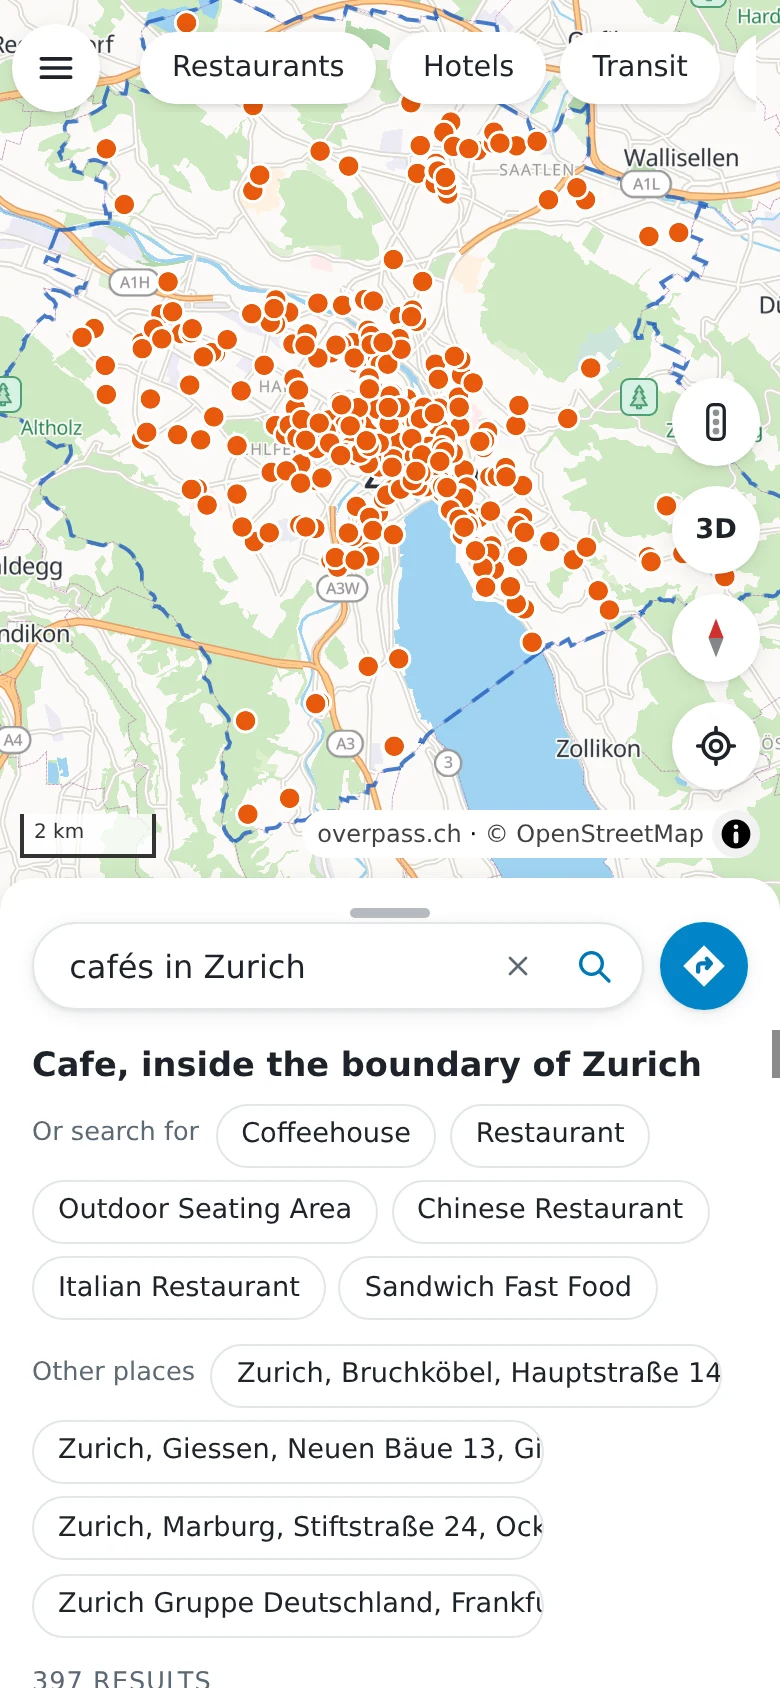
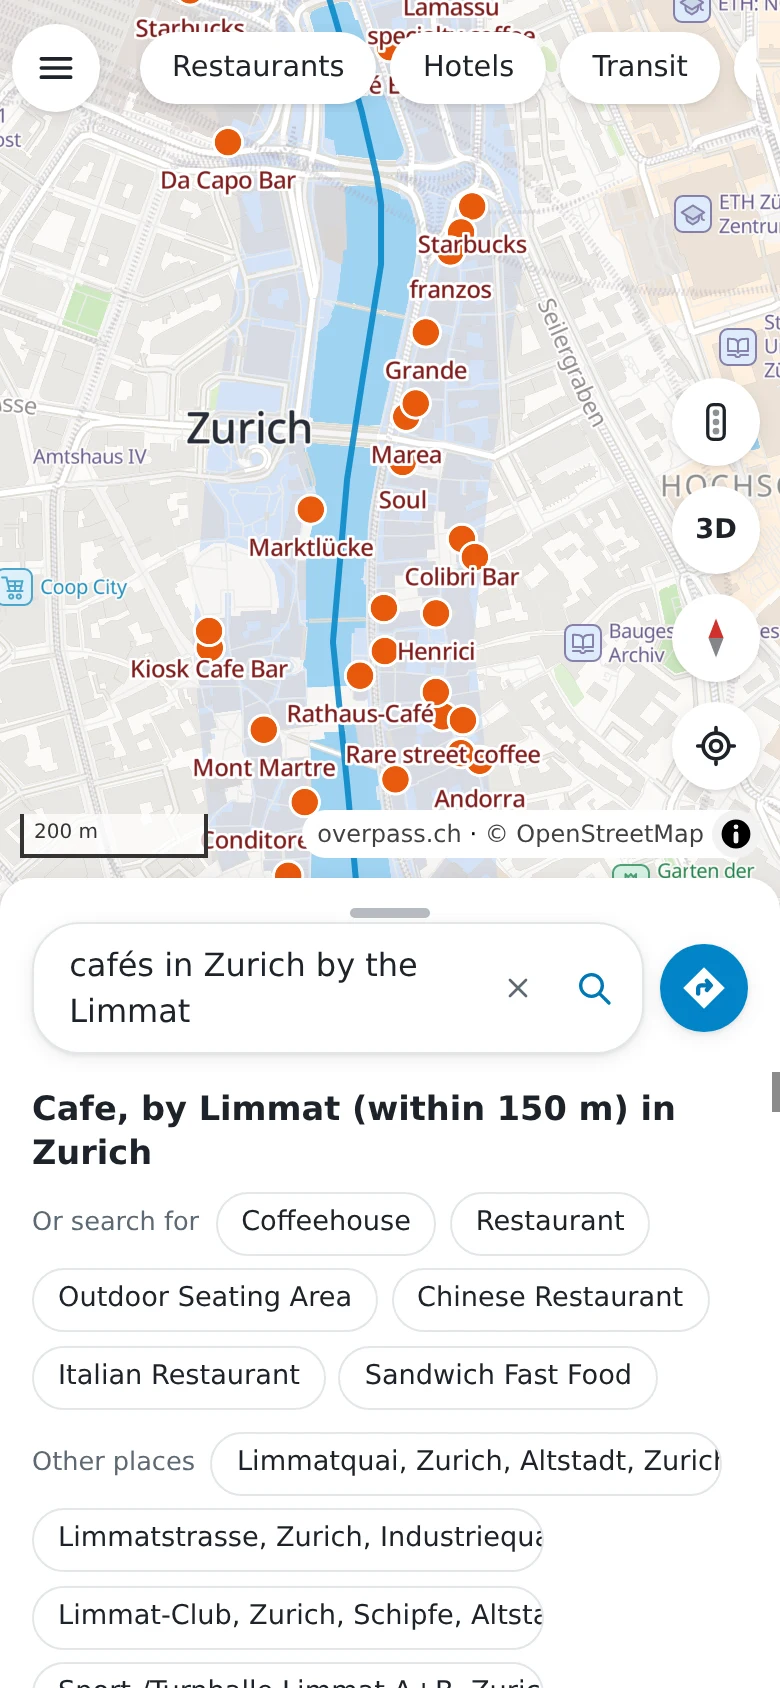
README: the search picture and the example are cafés in Zurich by the Limmat (the old town found nothing), zoomed in on the river; the store texts in English and German too; the Map list without the start at the IP address and the globe

diff --git a/README.md b/README.md
@@ -16,7 +16,7 @@ OpenStreetMap data.**
 
 <table>
   <tr>
-    <td width="20%"><img src="docs/img/search.webp" width="165" alt="A search for cafés in Zurich on a phone, the results on the map"></td>
+    <td width="20%"><img src="docs/img/search.webp" width="165" alt="The search “cafés in Zurich by the Limmat” on a phone: the river drawn and the cafés along it"></td>
     <td width="20%"><img src="docs/img/place.webp" width="165" alt="The page of a museum with its opening hours and a photo"></td>
     <td width="20%"><img src="docs/img/route.webp" width="165" alt="A route by bike from Zurich main station to the Uetliberg"></td>
     <td width="20%"><img src="docs/img/navigation.webp" width="165" alt="Navigation by car: the next turn, the speed limit and the car in 3D"></td>
@@ -35,7 +35,7 @@ OpenStreetMap data.**
 
 ### Search and places
 
-- **Search** in plain words: "cafés in Zurich old town", "peaks over 4000 m in Valais". Once the map is zoomed or
+- **Search** in plain words: "cafés in Zurich by the Limmat", "peaks over 4000 m in Valais". Once the map is zoomed or
   moved, the list shows the results in view
 - **Place pages**: photo or logo from Wikimedia Commons, opening hours with the next change, website, phone, wheelchair
   access, Wikipedia, all tags
@@ -58,8 +58,6 @@ OpenStreetMap data.**
 
 ### Map
 
-- Opens at the town of the IP address of the visitor until the device tells where they are
-- A globe with the night side when zoomed out
 - Nine styles, the day map in the colours of Swiss topographic maps, day and night by the sun
 - 3D terrain and buildings, relief shading
 - Transit lines (metro, light rail, tram) in their colours
